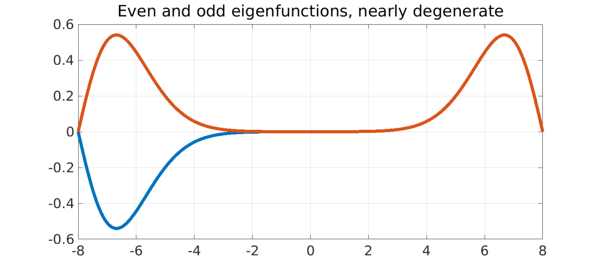
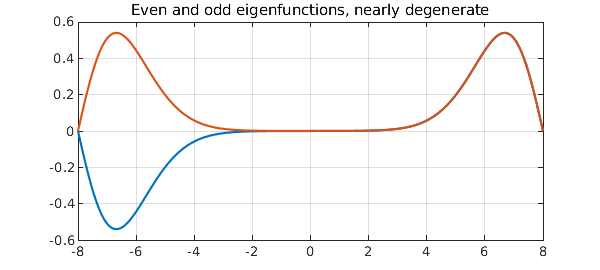
Updating ContinuousWilkinson

diff --git a/examples/ode-eig/img/ContinuousWilkinson.html b/examples/ode-eig/img/ContinuousWilkinson.html
@@ -24,32 +24,31 @@ Here is an analogue involving a self-adjoint Sturm-Liouville differential operat
 [V,D] = eigs(L,4,'LR');
 format long
 e = diag(D)</pre><pre class="mcode-output">e =
-   3.912042616399492
-   3.912059036621565
-   5.661892584504276
-   5.661892594767580
+   3.912042616399311
+   3.912059036621295
+   5.661892584504002
+   5.661892594767715
 </pre>A plot shows that as with the matrix, we have an even leading eigenfunction and a second eigenfunction that is almost the same except for a sign flip.
 
-<pre class="mcode-input">LW = 'linewidth'; FS = 'fontsize';
-plot(V(:,3:4),LW,6), grid on, shg
-title('Even and odd eigenfunctions, nearly degenerate',FS,40)</pre><img src="img/ContinuousWilkinson_01.png" class="figure" alt="">
+<pre class="mcode-input">plot(V(:,3:4)), grid on, shg
+title('Even and odd eigenfunctions, nearly degenerate')</pre><img src="img/ContinuousWilkinson_01.png" class="figure" alt="">
 
 For both our matrix and our differential operator problems, mathematically one eigenmode is even and the next is odd.  However, the real effect going on here is that the two ends of the domain are virtually decoupled.  By taking the sum and the difference of of the two eigenmodes, one gets a true even-odd pair:
 
 <pre class="mcode-input">right = V(:,4) + V(:,3);
 left = V(:,4) - V(:,3);
-plot([left right],LW,6)
-title('Left and right pseudo-eigenfunctions, localized',FS,40)</pre><img src="img/ContinuousWilkinson_02.png" class="figure" alt="">
+plot([left right])
+title('Left and right pseudo-eigenfunctions, localized')</pre><img src="img/ContinuousWilkinson_02.png" class="figure" alt="">
 
 Let's confirm that these are pseudo-eigenfunctions.  First we confirm that the eigenfunctions are eigenfunctions:
 
 <pre class="mcode-input">v = V(:,4); lambda = e(4); format short
 norm( L*v - lambda*v )</pre><pre class="mcode-output">ans =
-   3.1661e-12
+   5.6730e-12
 </pre>Now we do a similar calculation with "left":
 
 <pre class="mcode-input">v = left; lambda = mean(e(3:4));
 norm( L*v - lambda*v )</pre><pre class="mcode-output">ans =
-   7.2564e-09
+   7.2576e-09
 </pre>As we say in the pseudospectra business, $v$ is not "near" an eigenfunction, but it is "nearly" an eigenfunction.
 

diff --git a/examples/ode-eig/ContinuousWilkinson.html b/examples/ode-eig/ContinuousWilkinson.html
@@ -83,23 +83,22 @@ format long
 e = diag(D)</pre>
 
 <pre class="mcode-output">e =
-   3.912042616399492
-   3.912059036621565
-   5.661892584504276
-   5.661892594767580
+   3.912042616399311
+   3.912059036621295
+   5.661892584504002
+   5.661892594767715
 </pre>
 
 <p>A plot shows that as with the matrix, we have an even leading eigenfunction and a second eigenfunction that is almost the same except for a sign flip.</p>
-<pre class="mcode-input">LW = 'linewidth'; FS = 'fontsize';
-plot(V(:,3:4),LW,6), grid on, shg
-title('Even and odd eigenfunctions, nearly degenerate',FS,40)</pre>
+<pre class="mcode-input">plot(V(:,3:4)), grid on, shg
+title('Even and odd eigenfunctions, nearly degenerate')</pre>
 
 <p><img src="img/ContinuousWilkinson_01.png" class="figure" alt=""></p>
 <p>For both our matrix and our differential operator problems, mathematically one eigenmode is even and the next is odd.  However, the real effect going on here is that the two ends of the domain are virtually decoupled.  By taking the sum and the difference of of the two eigenmodes, one gets a true even-odd pair:</p>
 <pre class="mcode-input">right = V(:,4) + V(:,3);
 left = V(:,4) - V(:,3);
-plot([left right],LW,6)
-title('Left and right pseudo-eigenfunctions, localized',FS,40)</pre>
+plot([left right])
+title('Left and right pseudo-eigenfunctions, localized')</pre>
 
 <p><img src="img/ContinuousWilkinson_02.png" class="figure" alt=""></p>
 <p>Let's confirm that these are pseudo-eigenfunctions.  First we confirm that the eigenfunctions are eigenfunctions:</p>
@@ -107,7 +106,7 @@ title('Left and right pseudo-eigenfunctions, localized',FS,40)</pre>
 norm( L*v - lambda*v )</pre>
 
 <pre class="mcode-output">ans =
-   3.1661e-12
+   5.6730e-12
 </pre>
 
 <p>Now we do a similar calculation with "left":</p>
@@ -115,7 +114,7 @@ norm( L*v - lambda*v )</pre>
 norm( L*v - lambda*v )</pre>
 
 <pre class="mcode-output">ans =
-   7.2564e-09
+   7.2576e-09
 </pre>
 
 <p>As we say in the pseudospectra business, $v$ is not "near" an eigenfunction, but it is "nearly" an eigenfunction.</p></div>

diff --git a/index.html b/index.html
@@ -269,5 +269,5 @@ plot(minx(1),minx(2),'.w')
     <script type="text/javascript" src="/js/config.js"></script>
     <script type="text/javascript" src="/js/jquery.flexslider-min.js"></script>
   </body>
-<!-- Compiled on Sunday, 18 April 2021 at 10:27. -->
+<!-- Compiled on Sunday, 18 April 2021 at 10:33. -->
 </html>

diff --git a/examples/ode-eig/ContinuousWilkinson.m b/examples/ode-eig/ContinuousWilkinson.m
@@ -42,9 +42,8 @@ e = diag(D)
 % A plot shows that as with the matrix, we have an even leading 
 % eigenfunction and a second eigenfunction that is almost the same
 % except for a sign flip.
-LW = 'linewidth'; FS = 'fontsize';
-plot(V(:,3:4),LW,6), grid on, shg
-title('Even and odd eigenfunctions, nearly degenerate',FS,40)
+plot(V(:,3:4)), grid on, shg
+title('Even and odd eigenfunctions, nearly degenerate')
 
 %%
 % For both our matrix and our differential operator problems, 
@@ -54,8 +53,8 @@ title('Even and odd eigenfunctions, nearly degenerate',FS,40)
 % of the two eigenmodes, one gets a true even-odd pair:
 right = V(:,4) + V(:,3);
 left = V(:,4) - V(:,3);
-plot([left right],LW,6)
-title('Left and right pseudo-eigenfunctions, localized',FS,40)
+plot([left right])
+title('Left and right pseudo-eigenfunctions, localized')
 
 %%
 % Let's confirm that these are pseudo-eigenfunctions.  First we
